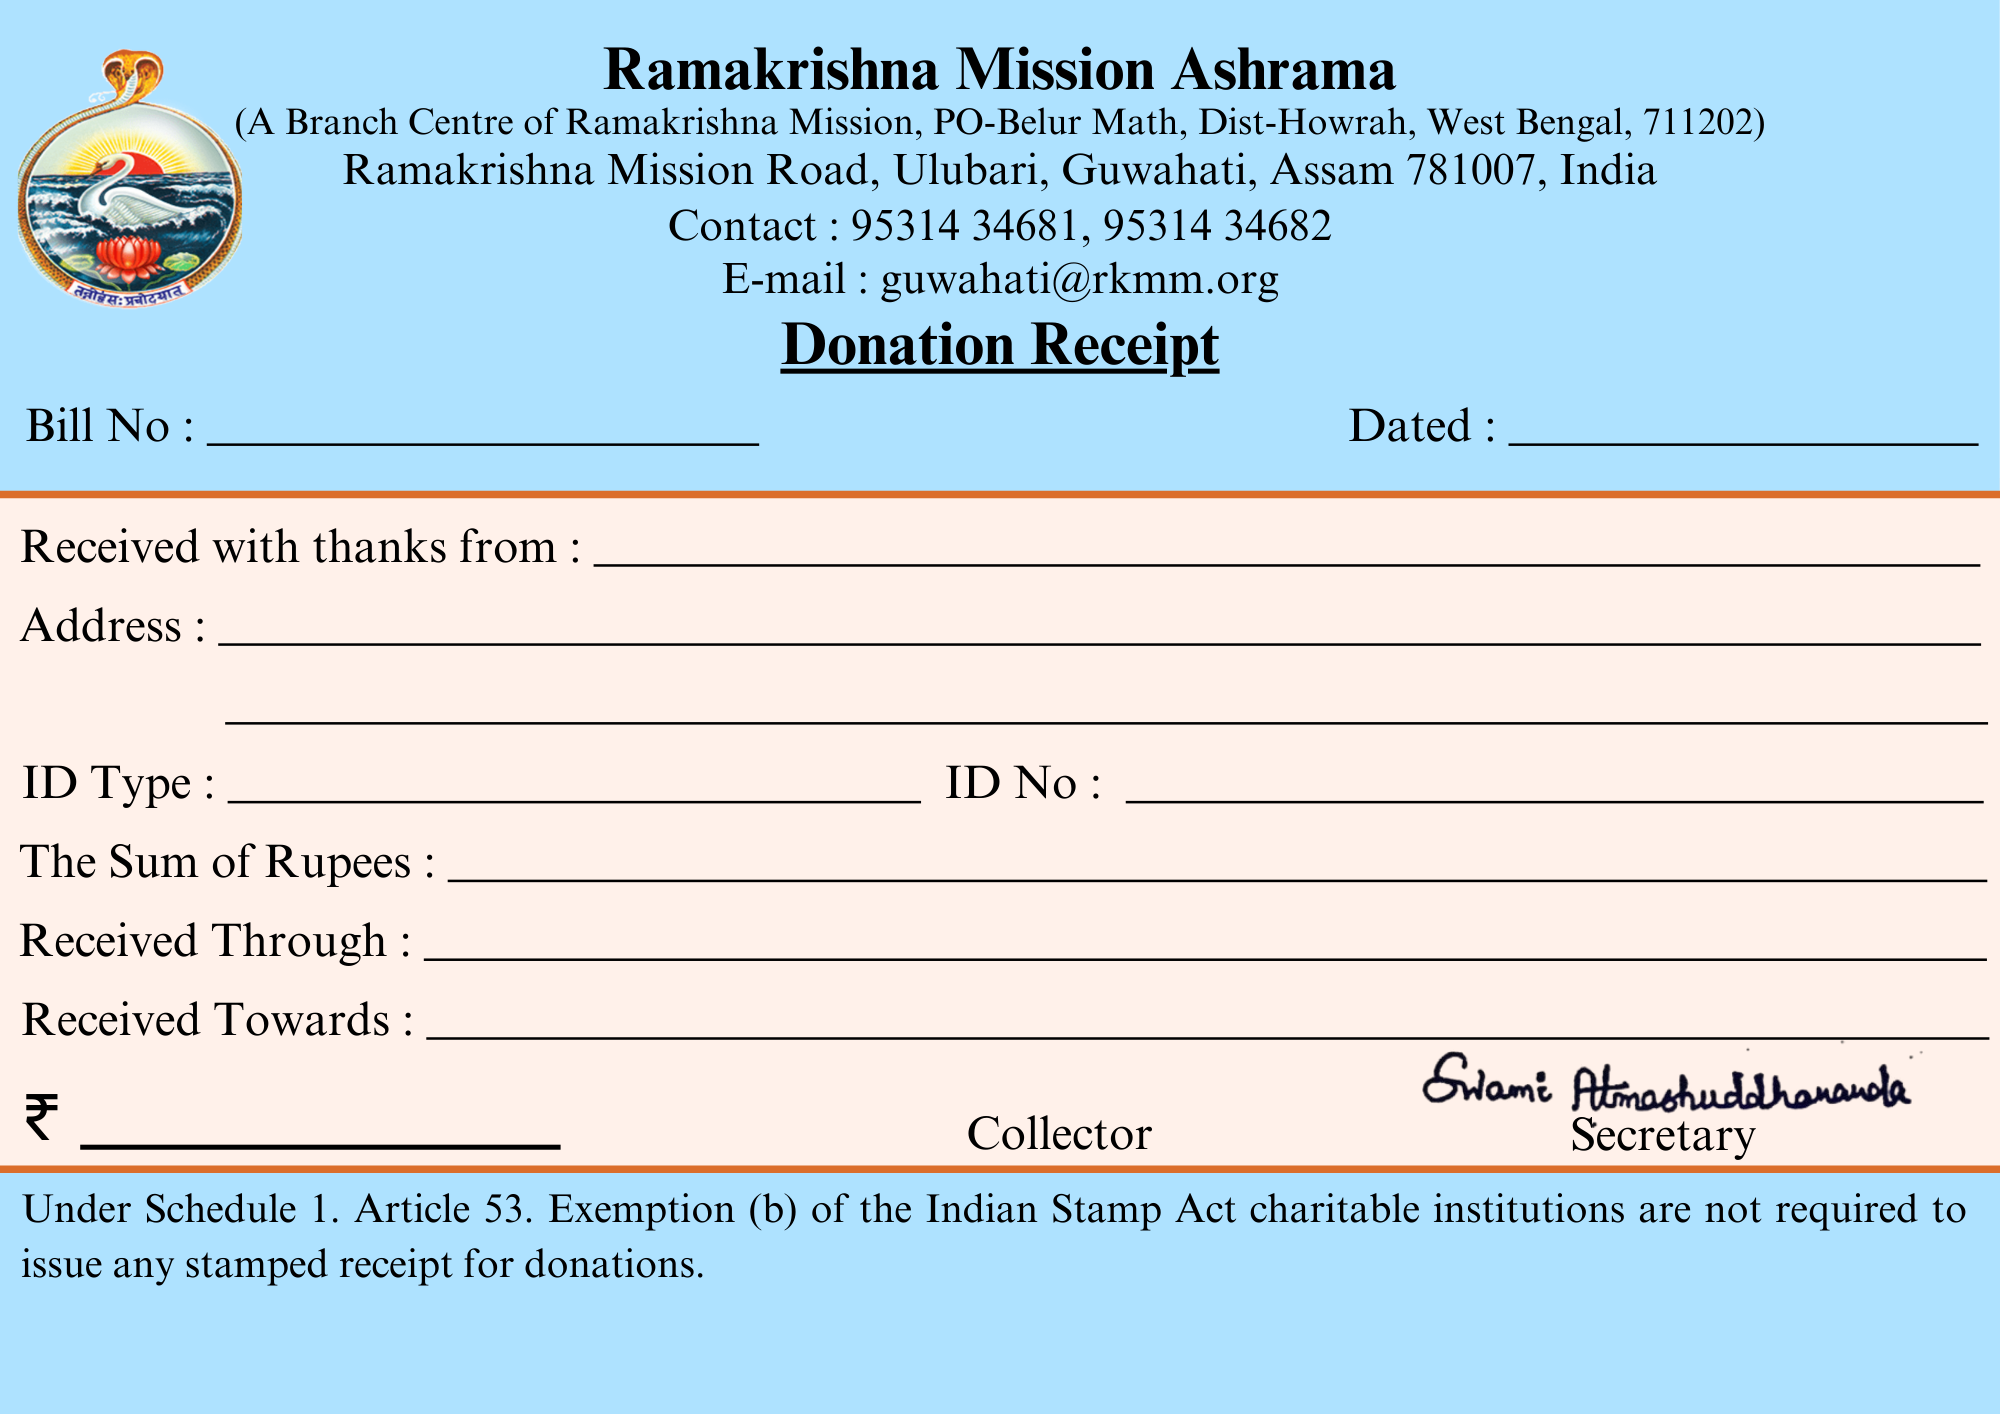
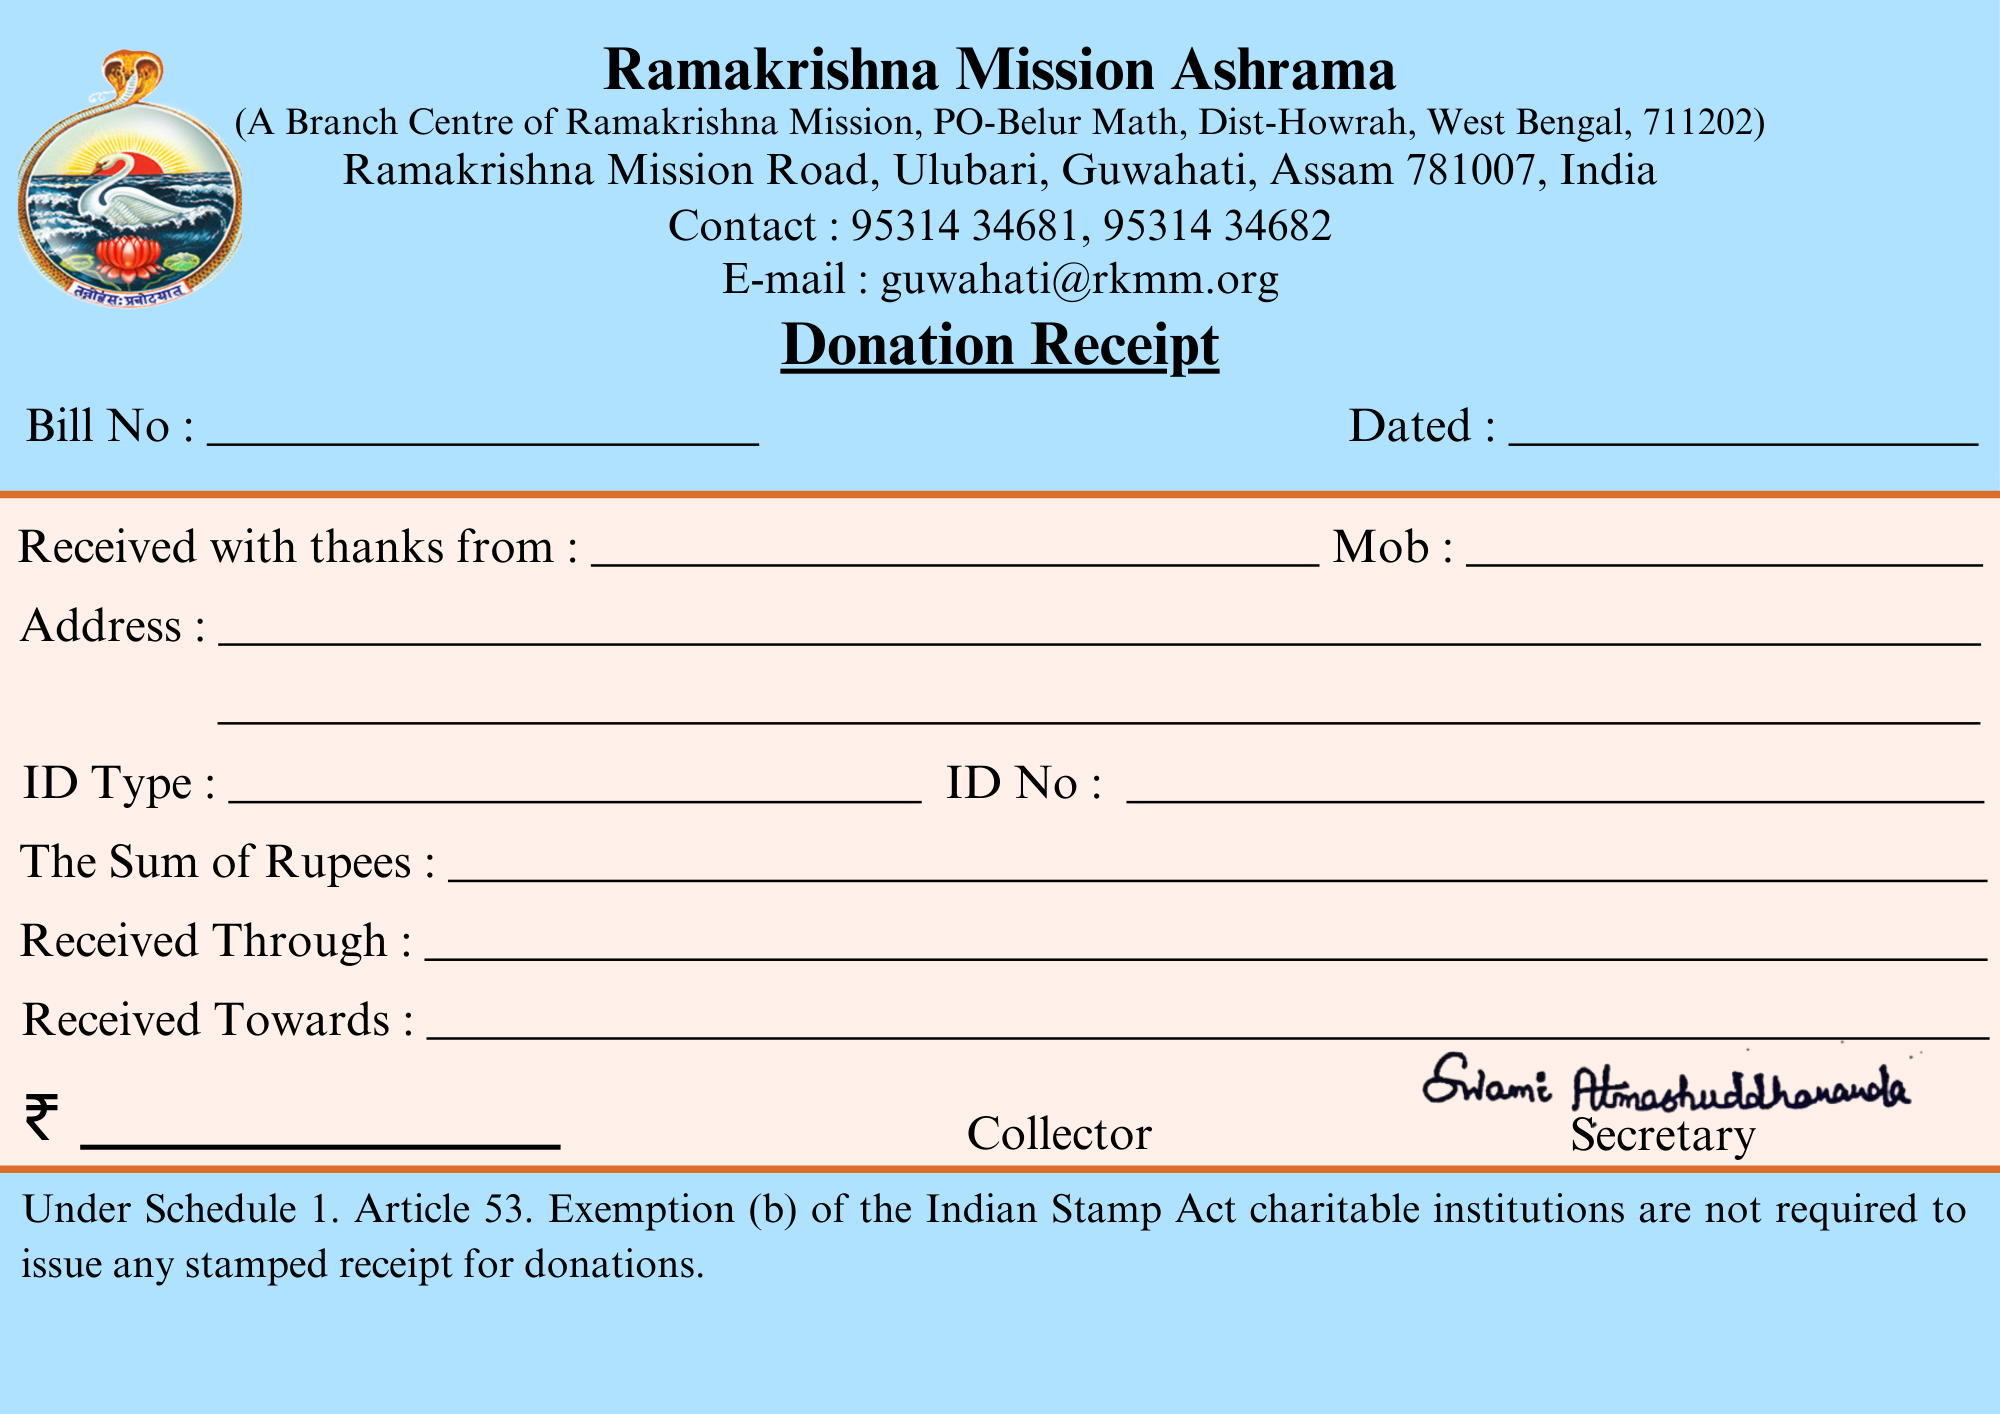
final

Changed region(s): [[0.0, 0.3734, 0.279, 0.4045], [0.031, 0.6535, 0.186, 0.6846], [0.651, 0.3734, 0.713, 0.4045]]

diff --git a/Frontend/src/components/Form/TestPrint.jsx b/Frontend/src/components/Form/TestPrint.jsx
@@ -140,7 +140,7 @@ const TestPrint = ({ formData }) => {
         style={{
           position: "absolute",
           top: "5.35cm",
-          left: "6.3cm",
+          left: "6.27cm",
           width: "15cm",
         }}
         className="text-lg"
@@ -150,8 +150,19 @@ const TestPrint = ({ formData }) => {
       <div
         style={{
           position: "absolute",
+          top: "5.35cm",
+          left: "15.37cm",
+          width: "15cm",
+        }}
+        className="text-lg"
+      >
+        {formData.mobileNo}
+      </div>
+      <div
+        style={{
+          position: "absolute",
           top: "6.19cm",
-          left: "2.45cm",
+          left: "2.4cm",
           width: "15cm",
         }}
         className="text-lg"
@@ -162,7 +173,7 @@ const TestPrint = ({ formData }) => {
         style={{
           position: "absolute",
           top: "7.01cm",
-          left: "2.45cm",
+          left: "2.4cm",
           width: "15cm",
         }}
         className="text-lg"
@@ -174,7 +185,7 @@ const TestPrint = ({ formData }) => {
         style={{
           position: "absolute",
           top: "7.83cm",
-          left: "2.5cm",
+          left: "2.45cm",
           width: "15cm",
         }}
         className="text-lg"
@@ -218,7 +229,7 @@ const TestPrint = ({ formData }) => {
         style={{
           position: "absolute",
           top: "10.3cm",
-          left: "4.5cm",
+          left: "4.55cm",
           width: "15cm",
         }}
         className="text-lg"

diff --git a/Frontend/src/components/Admin/Admin.jsx b/Frontend/src/components/Admin/Admin.jsx
@@ -14,7 +14,8 @@ import { HashLoader } from "react-spinners";
 import "./Admin.css";
 
 const Admin = () => {
-  const url = "http://192.168.0.238:8081";
+  // const url = "http://192.168.0.238:8081";
+  const url = "http://localhost:8081";
 
   const [records, setRecords] = useState([]);
   const [isLoading, setIsLoading] = useState(true);

diff --git a/Frontend/src/components/Form/Form.jsx b/Frontend/src/components/Form/Form.jsx
@@ -13,7 +13,8 @@ import { HashLoader } from "react-spinners";
 Modal.setAppElement("#root");
 
 const Form = () => {
-  const url = "http://192.168.0.238:8081";
+  // const url = "http://192.168.0.238:8081";
+  const url = "http://localhost:8081";
 
   const initialState = {
     submittedby_user: "",
